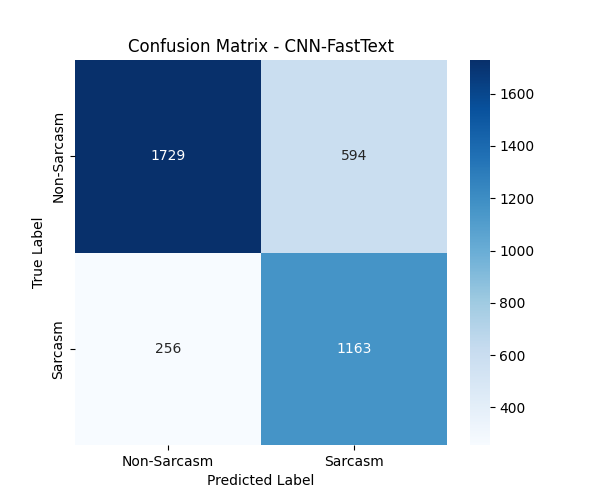
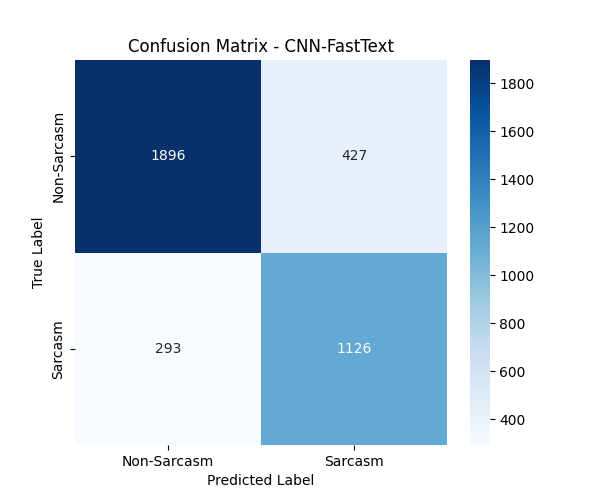
update model and test results

diff --git a/main.py b/main.py
@@ -48,6 +48,7 @@ def machine_learning(train_file, test_file):
 
     if os.path.exists('./model/tfidf.pkl'):
         vectorizer = joblib.load('./model/tfidf.pkl')
+        train_x = vectorizer.transform(train_tweets).toarray()
     else:
         vectorizer = TfidfVectorizer(max_features=1000)
         train_x = vectorizer.fit_transform(train_tweets).toarray()
@@ -97,7 +98,8 @@ def deep_learning(train_file, test_file):
     else:
         model = LSTM(embedding_matrix, vocab_size, embedding_dim)
     model = model.to(device)
-    criterion = nn.BCELoss()
+    # criterion = nn.BCELoss()
+    criterion = nn.BCEWithLogitsLoss()
     optimizer = optim.Adam(model.parameters(), lr=0.001)
 
     history = {
@@ -117,11 +119,15 @@ def deep_learning(train_file, test_file):
             outputs = model(batch_X)
             train_loss = criterion(outputs.squeeze(), batch_y.float())
 
-            predicted = (outputs > 0.5).float()
+            # predicted = (outputs > 0.5).float()
+            predicted = torch.sigmoid(outputs) > 0.5
             acc = (predicted == batch_y).float().mean()
             train_acc += acc.item()
 
             train_loss.backward()
+            
+            if args.model == 'lstm':
+                nn.utils.clip_grad_norm_(model.parameters(), max_norm=20, norm_type=2)
             optimizer.step()
 
             if idx % 100 == 0:
@@ -150,11 +156,10 @@ def deep_learning(train_file, test_file):
             feature, target = feature.to(device), target.to(device)
 
             out = model(feature)
-
-            predicted = []
-
-            predicted = (out > 0.5).float()
             loss = criterion(out.squeeze(), target.float())
+
+            # predicted = (out > 0.5).float()
+            predicted = (torch.sigmoid(out) > 0.5).float()
             
             equals = predicted == target
 

diff --git a/predict.py b/predict.py
@@ -80,13 +80,10 @@ def predict(train_file, test_file, model_name, model_file_path):
             feature, target = feature.to(device), target.to(device)
 
             out = model(feature)
-
-            predicted = []
+            loss = criterion(out.squeeze(), target.float())
 
             # predicted = (out > 0.5).float(）
-            predicted = torch.sigmoid(out) > 0.5
-       
-            loss = criterion(out.squeeze(), target.float())
+            predicted = (torch.sigmoid(out) > 0.5).float()
             
             equals = predicted == target
 

diff --git a/src/models.py b/src/models.py
@@ -30,7 +30,7 @@ class CNN(nn.Module):
         return x
 
 class LSTM(nn.Module):
-    def __init__(self, embedding_matrix, vocab_size, embed_dim, hidden_dim=128, num_layers=2): 
+    def __init__(self, embedding_matrix, vocab_size, embed_dim, hidden_dim=64, num_layers=1): 
         super(LSTM, self).__init__()
         self.embedding = nn.Embedding.from_pretrained(torch.tensor(embedding_matrix, dtype=torch.float32), freeze=False)
         self.lstm = nn.LSTM(embed_dim, hidden_dim, num_layers, batch_first=True)
